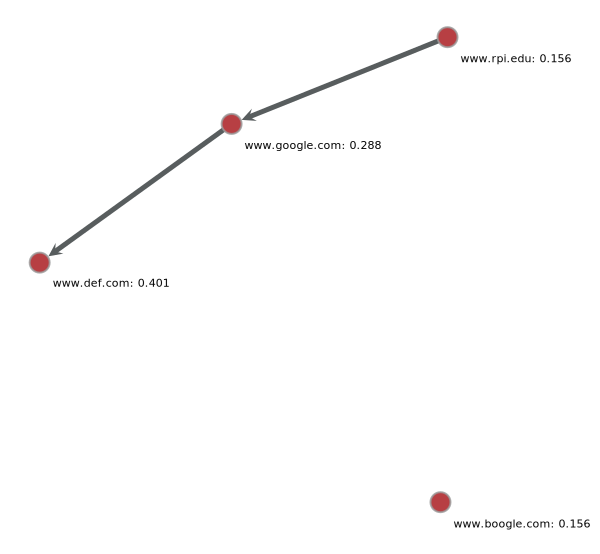
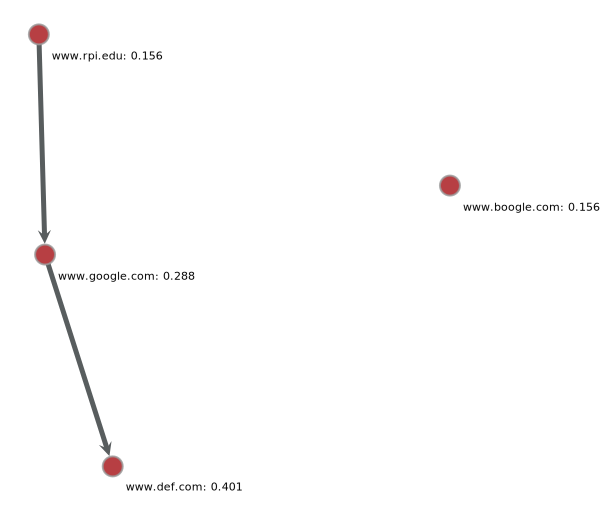
Final Commit. Use PS to properly shutdown system

diff --git a/API_control/code.py b/API_control/code.py
@@ -5,8 +5,12 @@ from pydantic import BaseModel
 
 import json
 import graph_manip
+import time
+import threading
 
 app = FastAPI()
+
+pagerank_call_count = 0
 
 ######################################## UI/UX INTERFACE ########################################
 def get_graph_as_json():
@@ -15,16 +19,26 @@ def get_graph_as_json():
 
 @app.get("/uiux/graph")
 async def return_graph():
-	return get_graph_as_json()
+	graph_manip.update_mutex.acquire()		# acquire mutex lock
+	ret_val = get_graph_as_json()
+	graph_manip.update_mutex.release()		# release mutex lock
+	
+	return ret_val
 
 # TODO: implement sub graphing
 @app.get("/uiux/subgraph/{url}")
 async def return_subgraph(url):
-	return get_graph_as_json()
+	graph_manip.update_mutex.acquire()		# acquire mutex lock
+	ret_val = get_graph_as_json()
+	graph_manip.update_mutex.release()		# release mutex lock
+	
+	return ret_val
 
 ####################################### RANKING INTERFACE #######################################
 @app.get("/ranking/{url}")
 async def return_score(url):
+	graph_manip.update_mutex.acquire()		# acquire mutex lock
+
 	node = graph_manip.find_in_graph(url)
 	return_json = {"pageRank": None, "inLinkCount": None, "outLinkCount": None}
 
@@ -34,28 +48,86 @@ async def return_score(url):
 		return_json["outLinkCount"] = int(graph_manip.g.get_out_degrees([node])[0])
 		print(return_json)
 
+	graph_manip.update_mutex.release()		# release mutex lock
+
 	return return_json
 ###################################### CRAWLING INTERFACE #######################################
+class crawling_payload(BaseModel):
+	url: str
+	child_nodes: list
+
 @app.post("/crawling/add_nodes")
-async def update_link_graph(node_payload):
-	print(node_payload)
-	# TODO: Write code here to pass the schema on
-	return True
+async def update_link_graph(add_node_payload: crawling_payload):
+	graph_manip.update_mutex.acquire()		# acquire mutex lock
+	# call the wrapped function
+	graph_manip.add_node(add_node_payload.json())
+	graph_manip.update_mutex.release()		# release mutex lock
+
+	return {"nodes_added": True}
 
 @app.get("/crawling/remove_node/{url}")
 async def remove_node(url):
-	return {"node_removed": graph_manip.remove_node(url)}
+	graph_manip.update_mutex.acquire()		# acquire mutex lock
+	result = graph_manip.remove_node(url)
+	graph_manip.update_mutex.release()		# release mutex lock
+
+	return {"node_removed": result}
 
 ##################################### EVALUATION INTERFACE ######################################
 # Schema for Evaluation Team
 class evaluation_payload(BaseModel):
-	url: str
-	clicks: float
-	time: float
+	list_of_clicked_links: list
+	click_count: list
 
 @app.post("/evaluation/update_metadata")
-async def update_metadata(evaluation_payload):
-	# TODO: Write code here to pass the schema on
+async def update_metadata(evaluation_payload)
+	graph_manip.update_mutex.acquire()		# acquire mutex lock
+	graph_manip.update_metadata(evaluation_payload.json())
+	graph_manip.update_mutex.release()		# release mutex lock
+
+	return True
+
+# Report metric is called by US.
+
+##################################### LINK ANALYSIS INTERFACE ######################################
+@app.get("/run_pagerank")
+async def run_pagerank():
+	update_pagerank()
+	return True
+
+@app.get("/visualize_graph")
+async def visualize_graph():
+	graph_manip.update_mutex.acquire()		# acquire mutex lock
+
+	graph_manip.graph_tool.draw.graph_draw(
+		graph_manip.g, 
+		edge_pen_width=5,
+		vertex_text=graph_manip.node_text, 
+		vertex_aspect=1, 
+		vertex_text_position=1, 
+		vertex_text_color='black',
+		vertex_font_family='sans',
+		vertex_font_size=11,
+		vertex_color=None,
+		vertex_size=20,
+		output="new_graph.png"
+	)
+
+	graph_manip.update_mutex.release()		# release mutex lock
+
+	return True
+
+@app.get("/print_scores")
+async def print_scores():
+	graph_manip.update_mutex.acquire()		# acquire mutex lock
+
+	if graph_manip.page_rank is not None:
+		print("\nPageRank scores:")
+		for v in graph_manip.g.vertices():
+			print(f"{graph_manip.node_url[v]}: {graph_manip.page_rank[v]}")
+
+	graph_manip.update_mutex.release()		# release mutex lock
+
 	return True
 
 # Report metric is called by US.
@@ -63,8 +135,12 @@ async def update_metadata(evaluation_payload):
 
 # Updates page rank
 def update_pagerank():
+	global pagerank_call_count
 	# acquire mutex
 	graph_manip.update_mutex.acquire()
+
+	pagerank_call_count += 1
+	print(f"[PageRank Call: {pagerank_call_count}]")
 
 	graph_manip.page_rank = graph_manip.pagerank(graph_manip.g)
 
@@ -122,8 +198,20 @@ graph_manip.graph_tool.draw.graph_draw(
 if graph_manip.page_rank is not None:
 	print("\nPageRank scores:")
 	for v in graph_manip.g.vertices():
-		print(f"{graph_manip.node_url[v]}: {graph_manip.page_rank[v]}, {graph_manip.g.get_in_degrees([v])[0]}")
+		print(f"{graph_manip.node_url[v]}: {graph_manip.page_rank[v]}")
 
 
 				
-print("Doing good")
+print("Doing Good. Will start pagerank thread")
+
+
+################################################################################################################
+# Main Routine
+def main_routine():
+	while True:
+		update_pagerank()
+		time.sleep(60)
+
+t1 = threading.Thread(target=main_routine)
+
+t1.start()

diff --git a/API_control/graph_manip.py b/API_control/graph_manip.py
@@ -4,7 +4,6 @@ from graph_tool.all import Graph, graph_tool, find_vertex, pagerank
 import threading
 import json
 
-update_mutex = threading.Lock()
 
 '''
 example payload:
@@ -23,10 +22,10 @@ example payload:
 
 #create Graph as global so it is accessible everywhere
 g = Graph(directed=True)
-vert_map = dict() #dict of ["URL": vertex_index]. This is so I can search the indices by url in less than O(N)
 node_url = g.new_vp("string") # attaches the URL to the vertices. This is useful for displaying the URL
 page_rank = None
 node_text = g.new_vp("string")
+update_mutex = threading.Lock()
 
 # returns the vertex
 def find_in_graph(url):
@@ -102,7 +101,7 @@ def add_node(payload):
 	# success
     return 0
 
-#removes specified node and all connecting edges
+# removes specified node and all connecting edges
 def remove_node(url):
     node = find_in_graph(url)
 
@@ -111,6 +110,11 @@ def remove_node(url):
         return True #success
 
     return False #failure
+
+# Is a stub function
+def update_metadata(payload):
+    # TODO: Write actual code
+    return False
     
 # converts the graph to json
 def convert_graph_to_JSON(g):
